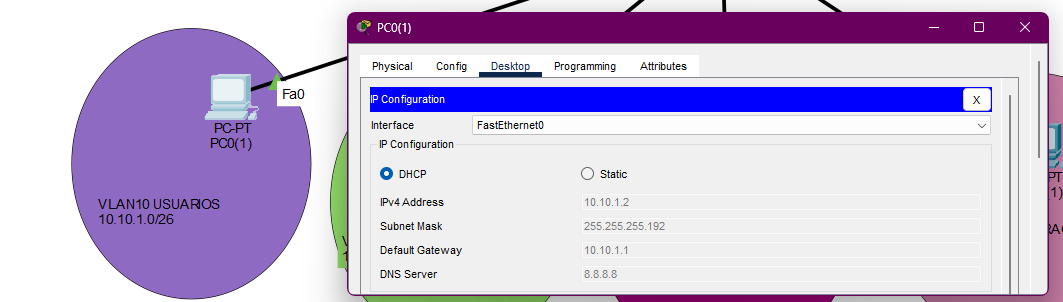
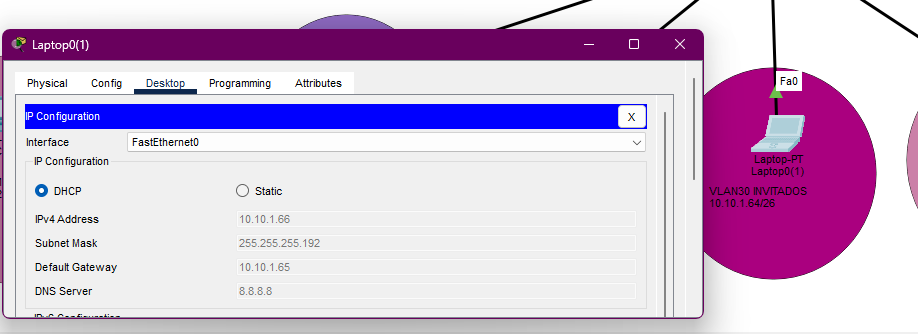
Fase 2 Entregables Net

diff --git a/network/addressing/VLSM.md b/network/addressing/VLSM.md
@@ -1,0 +1,36 @@
+# GENERAL NETWORK
+**General Network:** 10.10.0.0/16
+
+## SEDE A – 10.10.0.0/24
+
+| Name | VLAN ID | N. Host | Subnet | MN | net | host | Octet | Prefix | 1st Usable | Last Usable | Broadcast |
+|---|---:|---:|---|---:|---:|---:|---:|---:|---|---|---|
+| USUARIOS | 10 | 60 | 10.10.0.0 | 64 | 10 | 6 | 4 | /26 | 10.10.0.1 | 10.10.0.62 | 10.10.0.63 |
+| INVITADOS | 30 | 35 | 10.10.0.64 | 64 | 10 | 6 | 4 | /26 | 10.10.0.65 | 10.10.0.126 | 10.10.0.127 |
+| ADMINISTRACION | 99 | 10 | 10.10.0.128 | 16 | 12 | 4 | 4 | /28 | 10.10.0.129 | 10.10.0.142 | 10.10.0.143 |
+| SERVIDORES | 20 | 8 | 10.10.0.144 | 16 | 12 | 4 | 4 | /28 | 10.10.0.145 | 10.10.0.158 | 10.10.0.159 |
+
+## SEDE B – 10.10.1.0/24
+
+| Name | VLAN ID | N. Host | Subnet | MN | net | host | Octet | Prefix | 1st Usable | Last Usable | Broadcast |
+|---|---:|---:|---|---:|---:|---:|---:|---:|---|---|---|
+| USUARIOS | 10 | 60 | 10.10.1.0 | 64 | 10 | 6 | 4 | /26 | 10.10.1.1 | 10.10.1.62 | 10.10.1.63 |
+| INVITADOS | 30 | 35 | 10.10.1.64 | 64 | 10 | 6 | 4 | /26 | 10.10.1.65 | 10.10.1.126 | 10.10.1.127 |
+| ADMINISTRACION | 99 | 10 | 10.10.1.128 | 16 | 12 | 4 | 4 | /28 | 10.10.1.129 | 10.10.1.142 | 10.10.1.143 |
+| SERVIDORES | 20 | 8 | 10.10.1.144 | 16 | 12 | 4 | 4 | /28 | 10.10.1.145 | 10.10.1.158 | 10.10.1.159 |
+
+## WAN ADDRESSING
+
+| Device | Interface | IP Address | Prefix |
+|---|---|---|---|
+| Router Sede A | G0/0/0 | 192.168.100.10 | /24 |
+| Router Sede B | G0/0/0 | 192.168.100.11 | /24 |
+
+## WAN NETWORK DATA
+
+| Parámetro | Address |
+|---|---|
+| Net | 192.168.100.0 |
+| 1st Usable | 192.168.100.1 |
+| Last Usable | 192.168.100.254 |
+| Broadcast | 192.168.100.255 |

diff --git a/network/diagrams/preliminary_test_evidence.md b/network/diagrams/preliminary_test_evidence.md
@@ -31,6 +31,7 @@
 *Figure 3: Gigabit and FastEthernet interfaces operating in trunk mode and allowing the project VLANs at Site A.*
 
 ![Figure3](Figure3.png)
+![Figure3_1](Figure3_1.png)
 
 ## 2. Local Layer 3: DHCP and Inter-VLAN Routing
 
@@ -66,9 +67,10 @@
 > **Command used:** `do show ip route` (on Site A and Site B)
 
 
-*Figure 7: Site A Router showing the 10.10.1.0/x networks learned via EIGRP (marked with 'D') on Site A.*
+*Figure 7: Site A Router showing the 10.10.1.0/x networks learned via EIGRP (marked with 'D').*
 
 ![Figure7](Figure7.png)
+![Figure7_1](Figure7_1.png)
 
 
 *Figure 8: Console message confirming 'Neighbor Adjacency' across the 192.168.100.0 network.*
@@ -83,5 +85,3 @@
 *Figure 9: Successful ping from the Users PC at Site A (10.10.0.x) to the Users PC at Site B (10.10.1.x).*
 
 ![Figure9](Figure9.png)
-
-*End of evidence document.*
